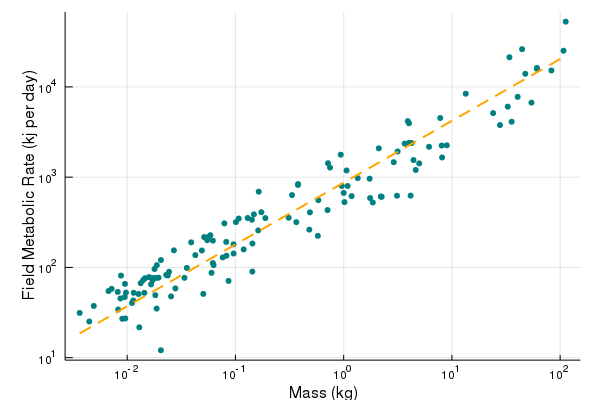
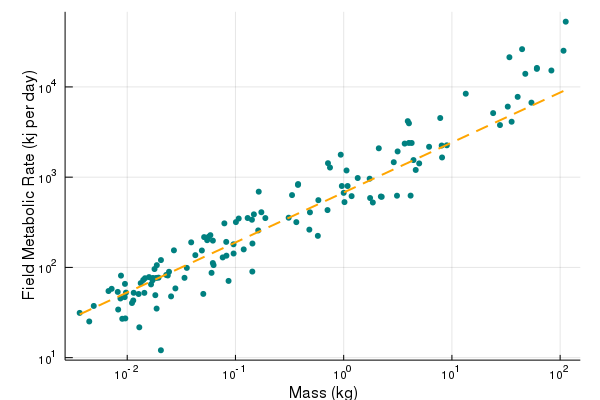
update with fewer lines

diff --git a/content/capstones/genetic_algorithm.md b/content/capstones/genetic_algorithm.md
@@ -109,11 +109,12 @@ opposed to taking the log of the averages).
 
 ````julia
 rates = by(rates, [:Genus, :Species], [:mass, :fmr] => x -> (mass=mean(log10.(x.mass)), fmr=mean(log10.(x.fmr))))
+rates[1:10,:]
 ````
 
 
 
-<table class="data-frame"><thead><tr><th></th><th>Genus</th><th>Species</th><th>mass</th><th>fmr</th></tr><tr><th></th><th>String</th><th>String</th><th>Float64</th><th>Float64</th></tr></thead><tbody><p>132 rows × 4 columns</p><tr><th>1</th><td>Diomedea</td><td>exulans</td><td>0.952967</td><td>3.35304</td></tr><tr><th>2</th><td>Arctocephalus</td><td>gazella</td><td>1.53131</td><td>4.32877</td></tr><tr><th>3</th><td>Sula</td><td>sula</td><td>0.0263231</td><td>3.07421</td></tr><tr><th>4</th><td>Macrotus</td><td>californicus</td><td>-1.88828</td><td>1.33622</td></tr><tr><th>5</th><td>Microtus</td><td>pennsylvanicus</td><td>-1.44936</td><td>1.9947</td></tr><tr><th>6</th><td>Tarsipes</td><td>rostratus</td><td>-2.04591</td><td>1.43081</td></tr><tr><th>7</th><td>Muscicapa</td><td>striata</td><td>-1.84164</td><td>1.71799</td></tr><tr><th>8</th><td>Parus</td><td>major</td><td>-1.74771</td><td>1.98197</td></tr><tr><th>9</th><td>Turdus</td><td>merula</td><td>-1.01773</td><td>2.256</td></tr><tr><th>10</th><td>Hirundo</td><td>tahitica</td><td>-1.85214</td><td>1.86032</td></tr><tr><th>11</th><td>Merops</td><td>viridis</td><td>-1.4707</td><td>1.88447</td></tr><tr><th>12</th><td>Sciurus</td><td>carolinensis</td><td>-0.234011</td><td>2.74503</td></tr><tr><th>13</th><td>Tachycineta</td><td>bicolor</td><td>-1.72656</td><td>2.02483</td></tr><tr><th>14</th><td>Uria</td><td>aalge</td><td>-0.0270878</td><td>3.24895</td></tr><tr><th>15</th><td>Poecile</td><td>cincta</td><td>-1.89461</td><td>1.70534</td></tr><tr><th>16</th><td>Poecile</td><td>montanus</td><td>-1.94412</td><td>1.63366</td></tr><tr><th>17</th><td>Myrmecobius</td><td>fasciatus</td><td>-0.317247</td><td>2.41855</td></tr><tr><th>18</th><td>Phocarctos</td><td>hookeri</td><td>2.05169</td><td>4.72295</td></tr><tr><th>19</th><td>Thalassarche</td><td>chrysostoma</td><td>0.563635</td><td>3.37201</td></tr><tr><th>20</th><td>Arctocephalus</td><td>galapagoensis</td><td>1.55174</td><td>3.61429</td></tr><tr><th>21</th><td>Eudyptula</td><td>minor</td><td>0.0364043</td><td>2.90196</td></tr><tr><th>22</th><td>Meleagris</td><td>gallopavo</td><td>0.645128</td><td>3.18936</td></tr><tr><th>23</th><td>Aplodontia</td><td>rufa</td><td>-0.145026</td><td>3.15469</td></tr><tr><th>24</th><td>Pygoscelis</td><td>adeliae</td><td>0.603158</td><td>3.59675</td></tr><tr><th>25</th><td>Lanius</td><td>excubitor</td><td>-1.20904</td><td>2.04835</td></tr><tr><th>26</th><td>Lontra</td><td>canadensis</td><td>0.892097</td><td>3.65534</td></tr><tr><th>27</th><td>Lepilemur</td><td>ruficaudatus</td><td>-0.149247</td><td>2.63522</td></tr><tr><th>28</th><td>Troglodytes</td><td>aedon</td><td>-2.01739</td><td>1.4347</td></tr><tr><th>29</th><td>Haliaeetus</td><td>leucocephalus</td><td>0.602276</td><td>3.37909</td></tr><tr><th>30</th><td>Phascolarctos</td><td>cinereus</td><td>0.908989</td><td>3.21824</td></tr><tr><th>31</th><td>Cinclus</td><td>cinclus</td><td>-1.20855</td><td>2.29673</td></tr><tr><th>32</th><td>Lasiorhinus</td><td>krefftii</td><td>1.44413</td><td>3.5773</td></tr><tr><th>33</th><td>Lasiorhinus</td><td>latifrons</td><td>1.38097</td><td>3.70967</td></tr><tr><th>34</th><td>Vombatus</td><td>ursinus</td><td>1.51603</td><td>3.78164</td></tr><tr><th>35</th><td>Carollia</td><td>perspicillata</td><td>-1.71068</td><td>1.88646</td></tr><tr><th>36</th><td>Petauroides</td><td>volans</td><td>0.00753945</td><td>2.72367</td></tr><tr><th>37</th><td>Fulmarus</td><td>glacialis</td><td>-0.126472</td><td>3.10663</td></tr><tr><th>38</th><td>Rissa</td><td>tridactyla</td><td>-0.420975</td><td>2.92362</td></tr><tr><th>39</th><td>Alle</td><td>alle</td><td>-0.784829</td><td>2.83927</td></tr><tr><th>40</th><td>Vulpes</td><td>cana</td><td>0.0</td><td>2.82607</td></tr><tr><th>41</th><td>Syconycteris</td><td>australis</td><td>-1.76277</td><td>1.88305</td></tr><tr><th>42</th><td>Martes</td><td>americana</td><td>-0.0171296</td><td>2.90197</td></tr><tr><th>43</th><td>Callipepla</td><td>gambelii</td><td>-0.844064</td><td>1.95387</td></tr><tr><th>44</th><td>Rangifer</td><td>tarandus</td><td>1.78472</td><td>4.19983</td></tr><tr><th>45</th><td>Tachyglossus</td><td>aculeatus</td><td>0.492571</td><td>2.79445</td></tr><tr><th>46</th><td>Arvicola</td><td>amphibius</td><td>-1.08329</td><td>2.13</td></tr><tr><th>47</th><td>Cervus</td><td>elaphus</td><td>2.03136</td><td>4.40097</td></tr><tr><th>48</th><td>Ptychoramphus</td><td>aleuticus</td><td>-0.760601</td><td>2.61139</td></tr><tr><th>49</th><td>Falco</td><td>tinnunculus</td><td>-0.72375</td><td>2.54676</td></tr><tr><th>50</th><td>Phalacrocorax</td><td>carbo</td><td>0.324477</td><td>3.31983</td></tr><tr><th>51</th><td>Sterna</td><td>hirundo</td><td>-0.887319</td><td>2.54728</td></tr><tr><th>52</th><td>Aptenodytes</td><td>patagonicus</td><td>1.12795</td><td>3.92474</td></tr><tr><th>53</th><td>Cavia</td><td>magna</td><td>-0.311605</td><td>2.61032</td></tr><tr><th>54</th><td>Phyllostomus</td><td>hastatus</td><td>-1.1178</td><td>2.1106</td></tr><tr><th>55</th><td>Cepphus</td><td>grylle</td><td>-0.42255</td><td>2.9141</td></tr><tr><th>56</th><td>Oenanthe</td><td>oenanthe</td><td>-1.6138</td><td>1.9516</td></tr><tr><th>57</th><td>Ficedula</td><td>hypoleuca</td><td>-1.87544</td><td>1.82567</td></tr><tr><th>58</th><td>Lophophanes</td><td>cristatus</td><td>-1.95587</td><td>1.60564</td></tr><tr><th>59</th><td>Periparus</td><td>ater</td><td>-2.02337</td><td>1.67074</td></tr><tr><th>60</th><td>Ficedula</td><td>albicollis</td><td>-1.79852</td><td>1.89268</td></tr><tr><th>61</th><td>Arenaria</td><td>interpres</td><td>-0.969918</td><td>2.54153</td></tr><tr><th>62</th><td>Calidris</td><td>canutus</td><td>-0.847682</td><td>2.52832</td></tr><tr><th>63</th><td>Petrogale</td><td>lateralis</td><td>0.343409</td><td>2.78533</td></tr><tr><th>64</th><td>Alouatta</td><td>palliata</td><td>0.789046</td><td>3.3366</td></tr><tr><th>65</th><td>Bradypus</td><td>variegatus</td><td>0.618408</td><td>2.79541</td></tr><tr><th>66</th><td>Petaurus</td><td>breviceps</td><td>-0.923658</td><td>2.1996</td></tr><tr><th>67</th><td>Spheniscus</td><td>demersus</td><td>0.498371</td><td>3.28511</td></tr><tr><th>68</th><td>Sminthopsis</td><td>crassicaudata</td><td>-1.77992</td><td>1.81188</td></tr><tr><th>69</th><td>Macropus</td><td>eugenii</td><td>0.665677</td><td>3.0799</td></tr><tr><th>70</th><td>Setonix</td><td>brachyurus</td><td>0.269277</td><td>2.71932</td></tr><tr><th>71</th><td>Macropus</td><td>giganteus</td><td>1.60763</td><td>3.88978</td></tr><tr><th>72</th><td>Odocoileus</td><td>hemionus</td><td>1.64843</td><td>4.41821</td></tr><tr><th>73</th><td>Thylogale</td><td>billardierii</td><td>0.697758</td><td>3.1524</td></tr><tr><th>74</th><td>Isoodon</td><td>obesulus</td><td>0.0732698</td><td>2.78976</td></tr><tr><th>75</th><td>Macronectes</td><td>giganteus</td><td>0.592092</td><td>3.62064</td></tr><tr><th>76</th><td>Oceanites</td><td>oceanicus</td><td>-1.37071</td><td>2.13575</td></tr><tr><th>77</th><td>Sorex</td><td>araneus</td><td>-2.0876</td><td>1.7285</td></tr><tr><th>78</th><td>Lemmus</td><td>sibiricus</td><td>-1.26134</td><td>2.30164</td></tr><tr><th>79</th><td>Calidris</td><td>alba</td><td>-1.23165</td><td>2.35721</td></tr><tr><th>80</th><td>Calidris</td><td>alpina</td><td>-1.28936</td><td>2.33587</td></tr><tr><th>81</th><td>Calidris</td><td>fuscicollis</td><td>-1.40894</td><td>2.27784</td></tr><tr><th>82</th><td>Calidris</td><td>maritima</td><td>-1.10237</td><td>2.48813</td></tr><tr><th>83</th><td>Calidris</td><td>minuta</td><td>-1.56839</td><td>2.18926</td></tr><tr><th>84</th><td>Charadrius</td><td>hiaticula</td><td>-1.24803</td><td>2.33927</td></tr><tr><th>85</th><td>Stercorarius</td><td>longicaudus</td><td>-0.477163</td><td>2.80128</td></tr><tr><th>86</th><td>Pongo</td><td>pygmaeus</td><td>1.73488</td><td>3.82576</td></tr><tr><th>87</th><td>Archilochus</td><td>alexandri</td><td>-2.43933</td><td>1.49593</td></tr><tr><th>88</th><td>Lampornis</td><td>clemenciae</td><td>-2.0576</td><td>1.90898</td></tr><tr><th>89</th><td>Calypte</td><td>anna</td><td>-2.35079</td><td>1.40107</td></tr><tr><th>90</th><td>Peromyscus</td><td>leucopus</td><td>-1.72836</td><td>1.54374</td></tr><tr><th>91</th><td>Tamias</td><td>striatus</td><td>-1.0171</td><td>2.15396</td></tr><tr><th>92</th><td>Lama</td><td>glama</td><td>1.67816</td><td>4.14529</td></tr><tr><th>93</th><td>Microcebus</td><td>murinus</td><td>-1.22088</td><td>1.93983</td></tr><tr><th>94</th><td>Eremitalpa</td><td>granti</td><td>-1.68881</td><td>1.08193</td></tr><tr><th>95</th><td>Lepus</td><td>americanus</td><td>0.129663</td><td>2.99048</td></tr><tr><th>96</th><td>Eulemur</td><td>fulvus</td><td>0.244134</td><td>2.76885</td></tr><tr><th>97</th><td>Lemur</td><td>catta</td><td>0.351411</td><td>2.7824</td></tr><tr><th>98</th><td>Pachyptila</td><td>desolata</td><td>-0.829592</td><td>2.58797</td></tr><tr><th>99</th><td>Lagopus</td><td>leucura</td><td>-0.437492</td><td>2.50162</td></tr><tr><th>100</th><td>Phalaenoptilus</td><td>nuttallii</td><td>-1.29706</td><td>1.70634</td></tr><tr><th>101</th><td>Haematopus</td><td>moquini</td><td>-0.789592</td><td>2.40994</td></tr><tr><th>102</th><td>Progne</td><td>subis</td><td>-1.31028</td><td>2.18747</td></tr><tr><th>103</th><td>Sterna</td><td>paradisaea</td><td>-0.995787</td><td>2.50212</td></tr><tr><th>104</th><td>Carollia</td><td>brevicauda</td><td>-2.06255</td><td>1.65596</td></tr><tr><th>105</th><td>Glossophaga</td><td>commissarisi</td><td>-1.74031</td><td>1.69231</td></tr><tr><th>106</th><td>Anoura</td><td>caudifer</td><td>-1.94013</td><td>1.71861</td></tr><tr><th>107</th><td>Aepyprymnus</td><td>rufescens</td><td>0.462762</td><td>3.1657</td></tr><tr><th>108</th><td>Phainopepla</td><td>nitens</td><td>-1.63958</td><td>1.91648</td></tr><tr><th>109</th><td>Estrilda</td><td>troglodytes</td><td>-2.17289</td><td>1.73803</td></tr><tr><th>110</th><td>Cormobates</td><td>leucophaea</td><td>-1.62525</td><td>1.91062</td></tr><tr><th>111</th><td>Malurus</td><td>cyaneus</td><td>-2.08355</td><td>1.53313</td></tr><tr><th>112</th><td>Chalybura</td><td>urochrysia</td><td>-2.14388</td><td>1.76283</td></tr><tr><th>113</th><td>Thalurania</td><td>colombica</td><td>-2.30908</td><td>1.57307</td></tr><tr><th>114</th><td>Melanerpes</td><td>formicivorus</td><td>-1.08525</td><td>2.28282</td></tr><tr><th>115</th><td>Acanthorhynchus</td><td>tenuirostris</td><td>-2.01175</td><td>1.72053</td></tr><tr><th>116</th><td>Phylidonyris</td><td>novaehollandiae</td><td>-1.76596</td><td>1.85745</td></tr><tr><th>117</th><td>Phylidonyris</td><td>pyrrhopterus</td><td>-1.83565</td><td>1.88024</td></tr><tr><th>118</th><td>Strix</td><td>occidentalis</td><td>-0.238742</td><td>2.34967</td></tr><tr><th>119</th><td>Hirundo</td><td>rustica</td><td>-1.68825</td><td>2.08131</td></tr><tr><th>120</th><td>Passerculus</td><td>sandwichensis</td><td>-1.73181</td><td>1.88349</td></tr><tr><th>121</th><td>Nectarinia</td><td>violacea</td><td>-2.02082</td><td>1.81744</td></tr><tr><th>122</th><td>Philetairus</td><td>socius</td><td>-1.5948</td><td>1.67894</td></tr><tr><th>123</th><td>Barnardius</td><td>zonarius</td><td>-0.842978</td><td>2.2647</td></tr><tr><th>124</th><td>Eolophus</td><td>roseicapilla</td><td>-0.508404</td><td>2.5507</td></tr><tr><th>125</th><td>Melopsittacus</td><td>undulatus</td><td>-1.55492</td><td>1.76729</td></tr><tr><th>126</th><td>Neophema</td><td>petrophila</td><td>-1.20204</td><td>2.02572</td></tr><tr><th>127</th><td>Struthio</td><td>camelus</td><td>1.78542</td><td>4.21025</td></tr><tr><th>128</th><td>Geophaps</td><td>plumifera</td><td>-1.06363</td><td>1.85031</td></tr><tr><th>129</th><td>Proteles</td><td>cristata</td><td>0.905457</td><td>3.35049</td></tr><tr><th>130</th><td>Oryx</td><td>leucoryx</td><td>1.91921</td><td>4.1819</td></tr><tr><th>131</th><td>Vulpes</td><td>rueppellii</td><td>0.240031</td><td>2.98299</td></tr><tr><th>132</th><td>Vulpes</td><td>vulpes</td><td>0.628186</td><td>3.37876</td></tr></tbody></table>
+<table class="data-frame"><thead><tr><th></th><th>Genus</th><th>Species</th><th>mass</th><th>fmr</th></tr><tr><th></th><th>String</th><th>String</th><th>Float64</th><th>Float64</th></tr></thead><tbody><p>10 rows × 4 columns</p><tr><th>1</th><td>Diomedea</td><td>exulans</td><td>0.952967</td><td>3.35304</td></tr><tr><th>2</th><td>Arctocephalus</td><td>gazella</td><td>1.53131</td><td>4.32877</td></tr><tr><th>3</th><td>Sula</td><td>sula</td><td>0.0263231</td><td>3.07421</td></tr><tr><th>4</th><td>Macrotus</td><td>californicus</td><td>-1.88828</td><td>1.33622</td></tr><tr><th>5</th><td>Microtus</td><td>pennsylvanicus</td><td>-1.44936</td><td>1.9947</td></tr><tr><th>6</th><td>Tarsipes</td><td>rostratus</td><td>-2.04591</td><td>1.43081</td></tr><tr><th>7</th><td>Muscicapa</td><td>striata</td><td>-1.84164</td><td>1.71799</td></tr><tr><th>8</th><td>Parus</td><td>major</td><td>-1.74771</td><td>1.98197</td></tr><tr><th>9</th><td>Turdus</td><td>merula</td><td>-1.01773</td><td>2.256</td></tr><tr><th>10</th><td>Hirundo</td><td>tahitica</td><td>-1.85214</td><td>1.86032</td></tr></tbody></table>
 
 
 
@@ -170,7 +171,7 @@ zero(::Type{Genome}) = Genome(0.0, 0.0)
 
 
 ````
-zero (generic function with 37 methods)
+zero (generic function with 35 methods)
 ````
 
 
@@ -188,12 +189,12 @@ population[1:5]
 
 
 ````
-5-element Array{Main.WeaveSandBox1.Genome,1}:
- Main.WeaveSandBox1.Genome(0.0, 0.0)
- Main.WeaveSandBox1.Genome(0.0, 0.0)
- Main.WeaveSandBox1.Genome(0.0, 0.0)
- Main.WeaveSandBox1.Genome(0.0, 0.0)
- Main.WeaveSandBox1.Genome(0.0, 0.0)
+5-element Array{Main.WeaveSandBox0.Genome,1}:
+ Main.WeaveSandBox0.Genome(0.0, 0.0)
+ Main.WeaveSandBox0.Genome(0.0, 0.0)
+ Main.WeaveSandBox0.Genome(0.0, 0.0)
+ Main.WeaveSandBox0.Genome(0.0, 0.0)
+ Main.WeaveSandBox0.Genome(0.0, 0.0)
 ````
 
 
@@ -211,7 +212,7 @@ population[1:5]
 
 
 ````
-5-element Array{Main.WeaveSandBox1.Genome,1}:
+5-element Array{Main.WeaveSandBox0.Genome,1}:
  ŷ = 0.0×x + 0.0
  ŷ = 0.0×x + 0.0
  ŷ = 0.0×x + 0.0
@@ -338,7 +339,7 @@ initial_genome
 
 
 ````
-ŷ = 0.198×x + 0.497
+ŷ = 0.211×x + 0.503
 ````
 
 
@@ -353,7 +354,7 @@ very_gradual_change! = normal_error(1e-3, 1e-3)
 
 
 ````
-(::getfield(Main.WeaveSandBox1, Symbol("#f#4")){Float64,Float64}) (generic 
+(::getfield(Main.WeaveSandBox0, Symbol("#f#4")){Float64,Float64}) (generic 
 function with 1 method)
 ````
 
@@ -374,27 +375,27 @@ population = [Genome(rand(Normal(0.75,0.2)), rand(Normal(3,1))) for i in 1:500]
 
 
 ````
-500-element Array{Main.WeaveSandBox1.Genome,1}:
- ŷ = 0.654×x + 5.04 
- ŷ = 0.926×x + 2.521
- ŷ = 0.674×x + 2.588
- ŷ = 1.01×x + 2.206 
- ŷ = 0.911×x + 3.044
- ŷ = 0.59×x + 3.062 
- ŷ = 0.441×x + 1.722
- ŷ = 0.614×x + 2.138
- ŷ = 0.444×x + 3.014
- ŷ = 0.651×x + 4.029
+500-element Array{Main.WeaveSandBox0.Genome,1}:
+ ŷ = 0.573×x + 2.4  
+ ŷ = 0.575×x + 3.115
+ ŷ = 0.78×x + 4.82  
+ ŷ = 0.614×x + 3.223
+ ŷ = 0.805×x + 3.464
+ ŷ = 1.115×x + 3.242
+ ŷ = 0.652×x + 2.365
+ ŷ = 0.801×x + 3.243
+ ŷ = 0.658×x + 2.869
+ ŷ = 0.85×x + 3.477 
  ⋮                   
- ŷ = 0.946×x + 3.148
- ŷ = 0.367×x + 2.479
- ŷ = 0.771×x + 0.801
- ŷ = 0.933×x + 1.402
- ŷ = 0.926×x + 2.527
- ŷ = 0.532×x + 1.521
- ŷ = 0.815×x + 2.494
- ŷ = 1.156×x + 2.888
- ŷ = 0.781×x + 1.401
+ ŷ = 0.619×x + 3.89 
+ ŷ = 0.587×x + 2.112
+ ŷ = 0.693×x + 3.364
+ ŷ = 0.978×x + 3.913
+ ŷ = 0.714×x + 2.412
+ ŷ = 0.453×x + 4.089
+ ŷ = 0.674×x + 3.183
+ ŷ = 0.831×x + 4.708
+ ŷ = 0.434×x + 3.448
 ````
 
 
@@ -422,4 +423,4 @@ yaxis!(:log10, "Field Metabolic Rate (kj per day)")
 {{< figure src="../figures/genetic_algorithm_19_1.png" title="Relationship between field metabolic rate and mass - this is a neat log-log relationship, and so linear regression will give us the exponent."  >}}
 
 
-We can also look at the equation for the most fit genome: ŷ = 0.685×x + 2.939.
+We can also look at the equation for the most fit genome: ŷ = 0.554×x + 2.83.
